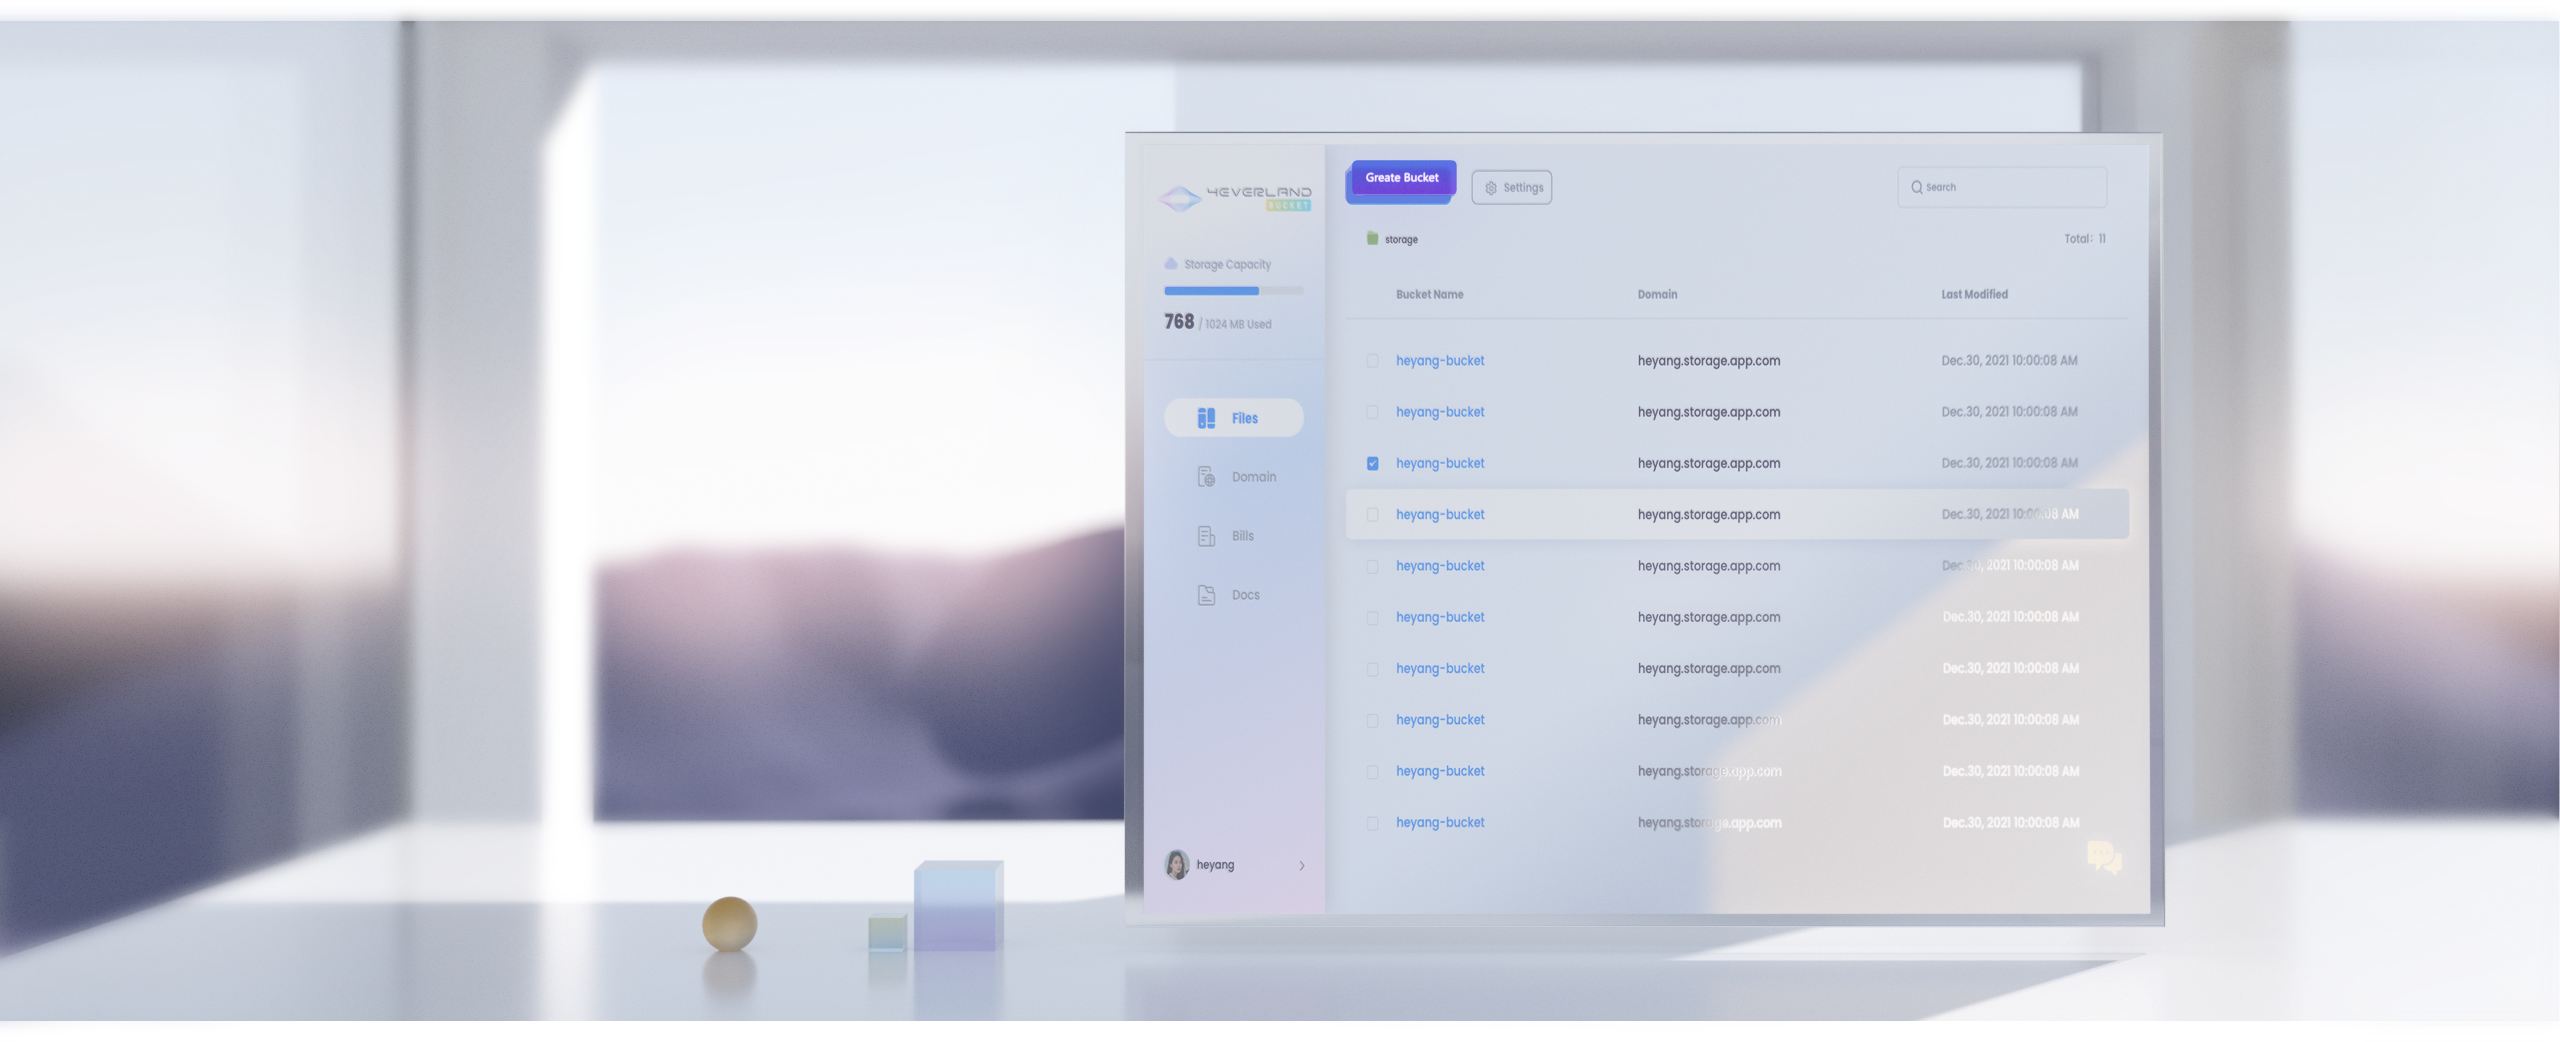
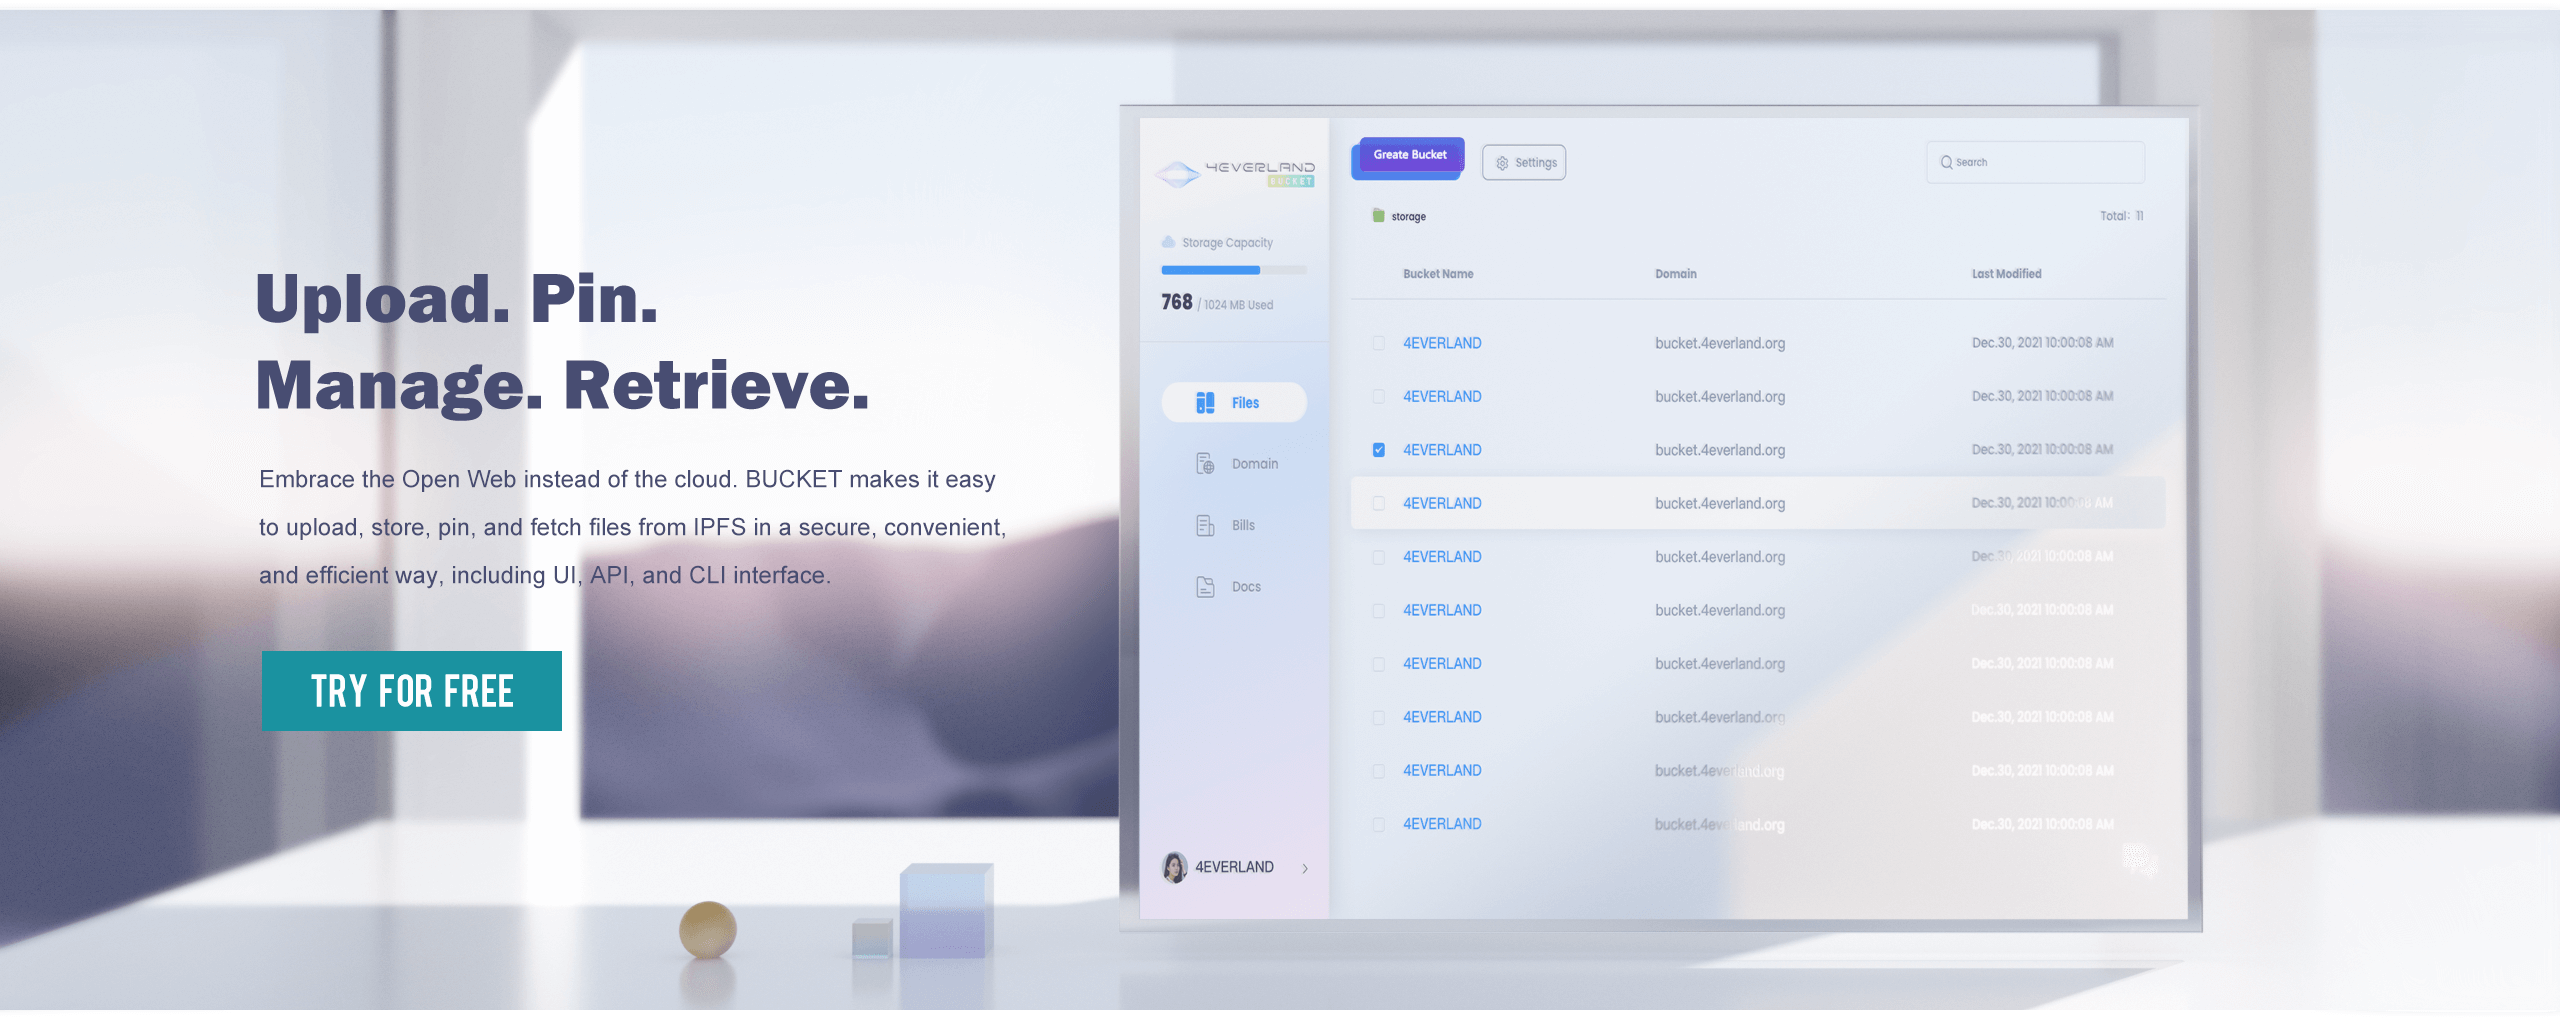
chore:add bucket page

diff --git a/components/BucketSections/BucketTop.vue b/components/BucketSections/BucketTop.vue
@@ -1,20 +1,17 @@
 <template>
   <div class="banner">
-    <v-container>
+    <v-img
+      :src="require('~/assets/imgs/bucket/banner.png')"
+      width="100%"
+      contain
+    ></v-img>
+    <!-- <v-container class="con">
       <v-row>
-        <v-col
-          class="d-flex align-center justify-center pa-0"
-          cols="12"
-          md="5"
-          lg="5"
-        >
-          <div class="text-h4" style="max-width: 500px">
+        <v-col class="pa-0" cols="12" md="5" lg="5">
+          <div class="text-h2 tit-color" style="max-width: 500px">
             Upload. Pin. Manage. Retrieve.
           </div>
-          <div
-            class="text-body-2 mt-16 grey--text text--lighten-1"
-            style="max-width: 500px"
-          >
+          <div class="text-h5 mt-16 tit-color" style="max-width: 500px">
             Embrace the Open Web instead of the cloud. BUCKET makes it easy to
             upload, store, pin, and fetch files from IPFS in a secure,
             convenient, and efficient way, including UI, API, and CLI interface.
@@ -30,9 +27,8 @@
             >
           </p>
         </v-col>
-        <v-col cols="12" md="7" lg=""> </v-col>
       </v-row>
-    </v-container>
+    </v-container> -->
   </div>
 </template>
 <script>
@@ -45,9 +41,13 @@ export default {
 <style scoped lang="scss">
 .banner {
   width: 100%;
-  background-image: url('~/assets/imgs/bucket/banner.png');
-  .banner-img {
-    // position: absolute;
+  position: relative;
+  .con {
+    position: absolute;
+    top: 0;
   }
+}
+.tit-color {
+  color: #484d72;
 }
 </style>
